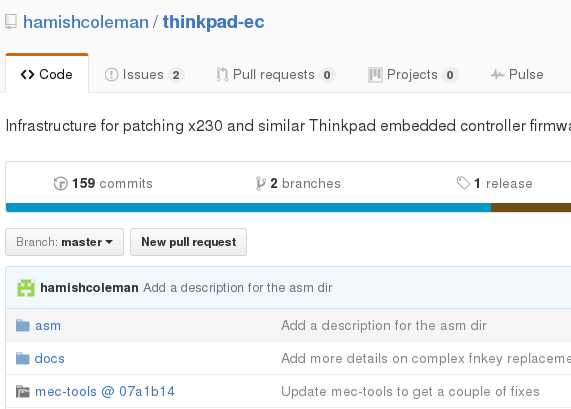
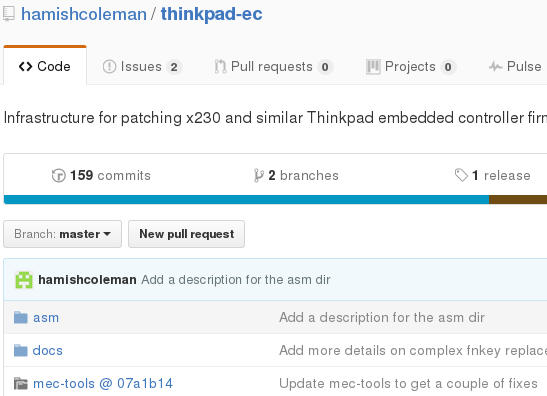
Minor image resizing (more side effects of changing the font)

diff --git a/slides.html b/slides.html
@@ -963,7 +963,7 @@ FIXME
    </ul>
 
   <td valign="bottom">
-    <img width=500 src="github1.png" />
+    <img width=450 src="github1.png" />
 </table>
 ???
 FIXME - add notes
@@ -1027,9 +1027,7 @@ FIXME - chaptername?
 
 # Lenovo tools
 
-<table style="margin-top: -26.5px;margin-left: -1.75px;" cellpadding=0>
- <tr valign="top" height="525">
-  <td width="70%">
+<div>
    <ul>
     <li><p>Lenovo has a Windows tool, I didn't look at it
     <li><p>Bootable CD contains "dosflash.exe"
@@ -1037,10 +1035,10 @@ FIXME - chaptername?
     <li><p>Runs dosflash</p>
      <ul><li><p>loads firmware, *magic happens*</p></ul>
    </ul>
-
-  <td valign="bottom">
-    <img width=500 src="dosflash1.png" />
-</table>
+ <div style="float:right">
+    <img width=450 src="dosflash1.png" />
+ </div>
+</div>
 
 ???
 FIXME - add notes
